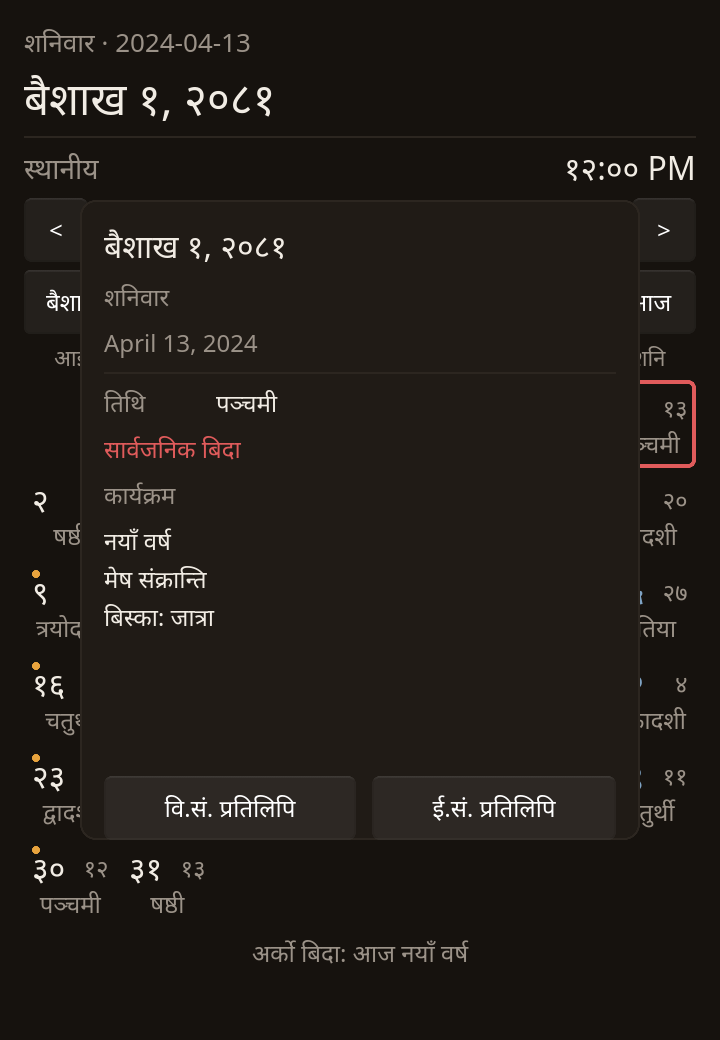
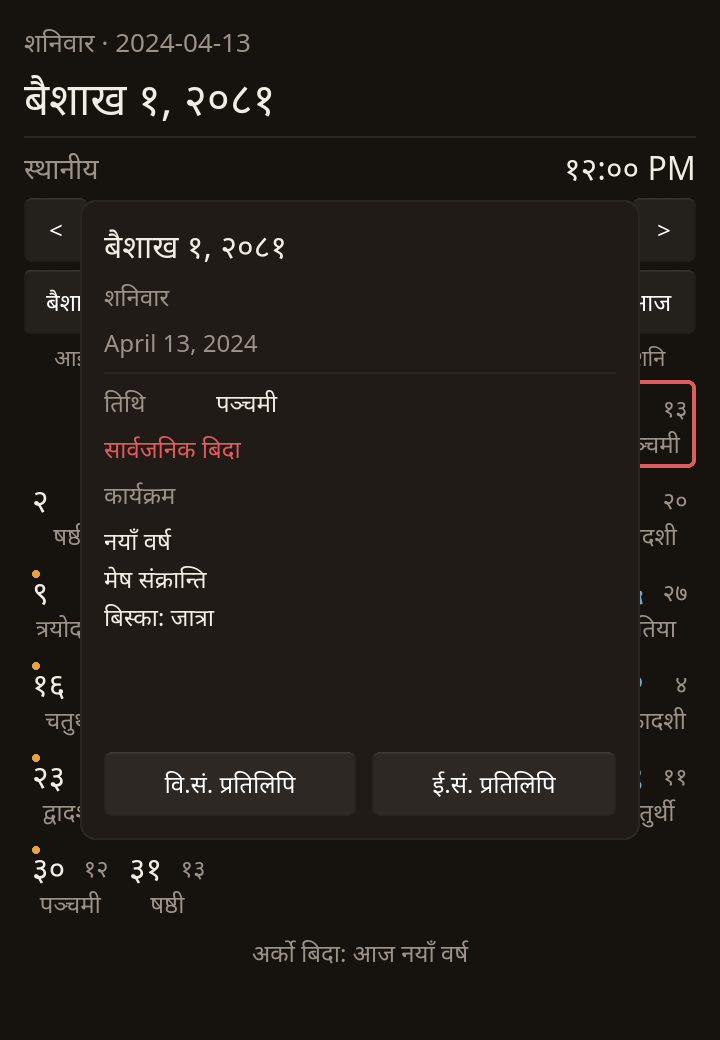
fix(mitibar): W2 review, day detail rows removed when empty and a scroll bar on long lists
Hidden tithi, holiday and events rows kept their layout slot, so a day
without them showed a blank gap. They are now created with if. The event
list is a ScrollView that takes the free card height, so a long list shows
a scroll bar instead of a half-cut line, and the Nepali card no longer
pushes the copy buttons onto its bottom edge. Adds the Nepali max-events
snapshot and fills the PROGRESS hashes left as 'this commit'.

Changed region(s): [[0.2139, 0.7385, 0.4278, 0.8], [0.5806, 0.7385, 0.7639, 0.8]]

diff --git a/docs/plan/PROGRESS.md b/docs/plan/PROGRESS.md
@@ -73,5 +73,5 @@ One row per task (hub `docs/handover.md` §3). Status is `done`, `blocked` (on w
 | W1R checkpoint | ready for review | this commit | `xtask ci: all 23 steps passed` | Commits `e0b4cf2` (W1R-01), `f8bb374` (W1R-02), `03d90cb` (W1R-03), `466e6a4` (W1R-04), after `7870996` (`cargo deny`: ignore RUSTSEC-2026-0370, 0371 and 0372, which also fail on `main` after the advisory database update). W1R-01 also moved the `.po`, because Slint fails the build without `i18n/ne/LC_MESSAGES/mitibar.po` for the new domain. Log check: `%LOCALAPPDATA%\mitibar\mitibar.log`, first line `mitibar logging to <path>`. W1 popup snapshots regenerated on 2026-10-18 and **not verified**; the tray and taskbar snapshots render no title or tooltip, so they are untouched. `git log --follow apps/mitibar/src/main.rs` reaches `cf4402c` (W0-01). Old-name grep is clean except ADR-0017, `L0`, `L6`, the W1R plan, `spike-results` and the PROGRESS/W0/W1/W1B history, all reported with reasons |
 | W1R review | done | this commit | agent `xtask ci: all 23 steps passed` (not rerun: E: is short of space) | Reviewer checked: no `Mitibar`, `MITIBAR` or `miti-bar` anywhere outside the plan's own rule; no old window-class or crate identifier under `apps/`; one `APP_NAME` used by the tray tooltip and the Slint `AppInfo` global; the four regenerated popup snapshots render correctly (the title lives in the OS title bar, which the snapshot does not show). `deny.toml` ignores RUSTSEC-2026-0370 to 0372 with reasons: unmaintained (not vulnerable) crates in the Linux-only zbus chain under Slint 1.18; revisit when Slint updates. Accepted: the `.po` move in W1R-01 (the build needs it), the grep leftovers in finished plans and ADR-0017. Old `%LOCALAPPDATA%\nepdate-widget` folder is left, per ADR-0017 |
 | W2 checkpoint | ready for review | this commit | `xtask ci: all 23 steps passed` | Commits `16799c3` (W2-00), `ad9a145` (W2-01), `84462bb` (W2-04), `28cdcb5` (W2-02), `9d50024` (W2-03), `cb6bd6b` (W2-05), `cb5ecfb` (W2-06). W2-04 came before W2-02 because the grid's holiday line needs the search. 51 tests. Coverage (`cargo llvm-cov -p mitibar --all-features`, platform, theme, ui_bridge and main ignored): 99.00 % lines, 98.87 % regions over 804 lines. Month build 14.2 µs in a release run with `log::debug`, against the 16 ms target. 8 snapshots in `docs/plan/spike-results/w2/` (light/dark, en/ne, 1x/2x), **not verified**. A 6-row month (2081 Baishakh) and the day-detail card were checked only in local previews, not committed. Manual checklist notes added; keyboard, screen reader, copy buttons and the real taskbar interaction were not run. Doubtful: the year SpinBox stays ASCII in the Nepali UI (standard widget); the AD long date and AD month markers stay Latin by widget-design §4; long tithi names elide and start left in the cell |
-| W2 review fixes | ready for review | this commit | `xtask ci: all 23 steps passed` | Commits `1a3b33e` (W2R-01), `8d4479e` (W2R-02), `212b9cf` (W2R-03), `a6f1856` (W2R-04), this one (W2R-05). Popup 360×520 (WR-02 AC1); 44 px cells with an AD superscript line, a BS line and a tithi line, 3 px row gaps; selector row 128/112 px pickers. Saturday and public holiday are separate flags and the holiday colour wins. AD marker on every 1st. 12 snapshots in `docs/plan/spike-results/w2/` with `--today` pinned (8 month, 2 six-row Baishakh 2081, 2 day detail), **not verified**. No BS month in 1901..2199 starts on an AD 1st (start days 10..20), so the reviewed first-cell branch was unreachable; the rule is position-independent and the test records the data fact. The AD superscript stays 8 px and long tithi names still elide |
-| W2 second review | ready for review | this commit | `xtask ci: all 23 steps passed` | Commits `1fd7eaa` (W2R2-01), `4ed27bb` (W2R2-02), `b300920` (W2R2-03), this one (W2R2-04). Cells are 44 px high with 4 px padding and a 2 px grid gap; line 1 has the BS day (16 px) at the left and the AD day (13 px Latin, 12 px Devanagari) at the right, with the 11 px AD month replacing the day on a 1st; line 2 is the tithi (12 px). A 4 px gap left the "Nov" marker touching the numeral at 1x, so the gap is 2 px. Measured glyph boxes: BS "15" ends x=32 and "Nov" starts x=35 in the 1x English image (2 px clear), 3 logical px in the 2x Nepali image; the today ring keeps 2 px from the right/bottom glyphs at 1x and 2 to 2.5 px at 2x. The event list sits at the top with 2 px spacing; the max is 9 events on 2081-06-01 and 2082-01-29, and a 1-event check used 2081-01-03. 13 snapshots (12 re-rendered plus the max-events detail), **not verified**. AC2 and AC3 reworded; the 32-day claim is gone |
+| W2 review fixes | done | `42a3301` | `xtask ci: all 23 steps passed` | Commits `1a3b33e` (W2R-01), `8d4479e` (W2R-02), `212b9cf` (W2R-03), `a6f1856` (W2R-04), `42a3301` (W2R-05). Popup 360×520 (WR-02 AC1); 44 px cells with an AD superscript line, a BS line and a tithi line, 3 px row gaps; selector row 128/112 px pickers. Saturday and public holiday are separate flags and the holiday colour wins. AD marker on every 1st. 12 snapshots in `docs/plan/spike-results/w2/` with `--today` pinned (8 month, 2 six-row Baishakh 2081, 2 day detail), **not verified**. No BS month in 1901..2199 starts on an AD 1st (start days 10..20), so the reviewed first-cell branch was unreachable; the rule is position-independent and the test records the data fact. The AD superscript stays 8 px and long tithi names still elide |
+| W2 second review | done | `614651b` | `xtask ci: all 23 steps passed` | Commits `1fd7eaa` (W2R2-01), `4ed27bb` (W2R2-02), `b300920` (W2R2-03), `614651b` (W2R2-04). Cells are 44 px high with 4 px padding and a 2 px grid gap; line 1 has the BS day (16 px) at the left and the AD day (13 px Latin, 12 px Devanagari) at the right, with the 11 px AD month replacing the day on a 1st; line 2 is the tithi (12 px). A 4 px gap left the "Nov" marker touching the numeral at 1x, so the gap is 2 px. Measured glyph boxes: BS "15" ends x=32 and "Nov" starts x=35 in the 1x English image (2 px clear), 3 logical px in the 2x Nepali image; the today ring keeps 2 px from the right/bottom glyphs at 1x and 2 to 2.5 px at 2x. The event list sits at the top with 2 px spacing; the max is 9 events on 2081-06-01 and 2082-01-29, and a 1-event check used 2081-01-03. 13 snapshots (12 re-rendered plus the max-events detail), **not verified**. AC2 and AC3 reworded; the 32-day claim is gone |

diff --git a/docs/runbooks/widget-manual-test.md b/docs/runbooks/widget-manual-test.md
@@ -3,7 +3,7 @@
 Copy this file per release/OS and tick. OS: Windows 11 Home Version: (agent run) Tester: agent Date: 2026-10-15
 
 W2 agent run 2026-10-18: unit tests and the `--popup --snapshot` tool at 1x/2x, light/dark and
-en/ne, with `--today` pinning the date and the clock to 12:00. 13 snapshots are in
+en/ne, with `--today` pinning the date and the clock to 12:00. 14 snapshots are in
 `docs/plan/spike-results/w2/`. No UI click, keyboard or screen-reader run was made; those lines
 stay unticked.
 
@@ -21,12 +21,12 @@ stay unticked.
 - [x] AC4 Light/dark/system themes; Devanagari renders per `docs/plan/devanagari-test-strings.md` (light+dark and en+ne popup snapshots in `docs/plan/spike-results/w1/`)
 
 ## Month grid (WR-03) / Day detail (WR-04)
-- [x] Grid shape, AD numbers, today outline, Saturday/holiday tint, 44 px rows and a 2 px gap (unit tests `wr03_ac1_rows` to `wr03_ac3_saturday_and_holiday_tint`; 13 snapshots in `docs/plan/spike-results/w2/`, not verified)
+- [x] Grid shape, AD numbers, today outline, Saturday/holiday tint, 44 px rows and a 2 px gap (unit tests `wr03_ac1_rows` to `wr03_ac3_saturday_and_holiday_tint`; 14 snapshots in `docs/plan/spike-results/w2/`, not verified)
 - [x] Tithi + event dots in 2081; nothing shown (no error) in 2090 (unit test `wr03_ac4_no_event_data_outside_coverage`; the month snapshots show 2083, the 6-row pair 2081, not verified)
 - [ ] Prev/next/today/pickers/wheel; disabled at 1901-01 and 2199-12 (model and `step_month` unit tests pass; the controls were not clicked)
 - [x] Next-holiday line (the snapshots show `Next holiday: Tula Sankranti today`; unit tests `wr03_ac8_*`; not verified)
-- [x] Day detail content (snapshots `day-detail-light-en-1x.png`, `day-detail-dark-ne-2x.png` and `day-detail-max-light-en-1x.png`, not verified)
-- [x] Event list top-aligned with 2 px spacing; scrolls at 9 events (the max card has 9 events; a 1-event check was rendered, not verified)
+- [x] Day detail content (snapshots `day-detail-light-en-1x.png`, `day-detail-dark-ne-2x.png` `day-detail-max-light-en-1x.png` and `day-detail-max-light-ne-2x.png`, not verified)
+- [x] Event list top-aligned with 2 px spacing; scrolls with a scroll bar at 9 events; no blank rows on a day without a tithi or holiday (max cards en and ne; 1-event and out-of-coverage checks rendered, not verified)
 - [ ] Day detail copy buttons; Escape order (the card rendered, but the buttons and the Escape order were not run)
 
 ## Clock (WR-05)

diff --git a/docs/plan/spike-results/w2/README.md b/docs/plan/spike-results/w2/README.md
@@ -6,7 +6,7 @@ Generated on Windows 11 with the MSVC toolchain on 2026-10-18. Each PNG is the p
 re-rendering an image does not change it. The eight month grids show Kartik 2083 (`--today
 2083-07-01`); the six-row pair shows Baishakh 2081 (`--today 2081-01-15`); the detail pair shows
 Baishakh 1, 2081, a Saturday and a public holiday (`--today 2081-01-01 --detail 2081-01-01`); the
-max-events card shows Ashoj 1, 2081 (`--today 2081-06-01 --detail 2081-06-01`), the day with nine
+max-events pair shows Ashoj 1, 2081 (`--today 2081-06-01 --detail 2081-06-01`), the day with nine
 events.
 
 `--today` and `--detail` exist only in the `snapshot` feature, and the parser rejects them without
@@ -29,6 +29,7 @@ The agent cannot judge the images, so every verdict is **not verified**: the rev
 | `day-detail-light-en-1x.png` | day detail, 3 events, light, English, 100 % | not verified |
 | `day-detail-dark-ne-2x.png` | day detail, 3 events, dark, Nepali, 200 % | not verified |
 | `day-detail-max-light-en-1x.png` | day detail, 9 events, light, English, 100 % | not verified |
+| `day-detail-max-light-ne-2x.png` | day detail, 9 events, light, Nepali, 200 % | not verified |
 
 Layout: a two-line header, the title row (previous / title / next), the month and year pickers plus
 Today, the Sunday-first weekday row, the 7-column grid, and the next-holiday line. The popup is
@@ -41,5 +42,7 @@ which keeps Today inside the 24 px margins in both languages.
 
 The day detail is an inline card over a scrim, not a new window. The cards show the BS and AD long
 dates, weekday, tithi, the public-holiday badge and the event list. The event items sit at the top
-with 2 px spacing and the list scrolls inside its 120 px box only when it is taller; the max card
-shows nine events. The copy buttons and the Escape order were not run.
+with 2 px spacing and take the free height of the card; a longer list scrolls and shows a scroll
+bar. Rows without data (tithi, holiday badge, events) are removed, not hidden, so they leave no gap,
+and the copy buttons stay at the bottom of the card. The max cards show nine events in English and
+Nepali. The copy buttons and the Escape order were not run.
